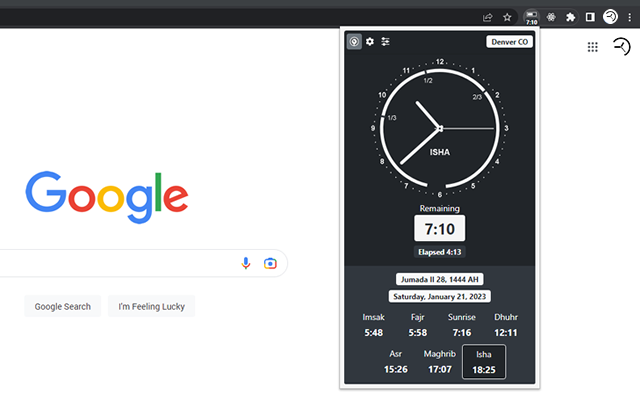
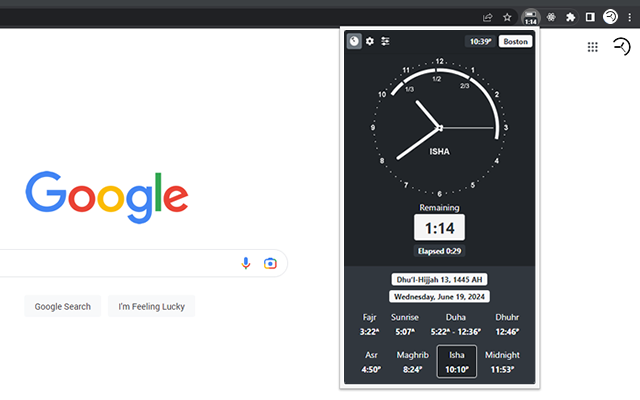
default to 12 hr format

diff --git a/js/index.js b/js/index.js
@@ -189,7 +189,7 @@ $(function () {
     $("#hour24Toggle").click(function () {
         chrome.storage.local.get(['appSettings'], function (result) {
             appSettings = result.appSettings;
-            appSettings.timeFormat = (appSettings.timeFormat == 12) ? '24' : '12';
+            appSettings.timeFormat = (appSettings.timeFormat == 12) ? 24 : 12;
             saveAppSettingsAndRefresh(appSettings);
         });
     });

diff --git a/serviceWorker.js b/serviceWorker.js
@@ -79,6 +79,7 @@ async function initUser(i18nValues, appSettings) {
             let appSettings = {
                 i18n: i18nValues,
                 ...data,
+                timeFormat: 12,
                 calculationMethod: i18nValues.defaultMethod,
                 iconStyle: 'badge',
                 desktopNotifications: 0,
